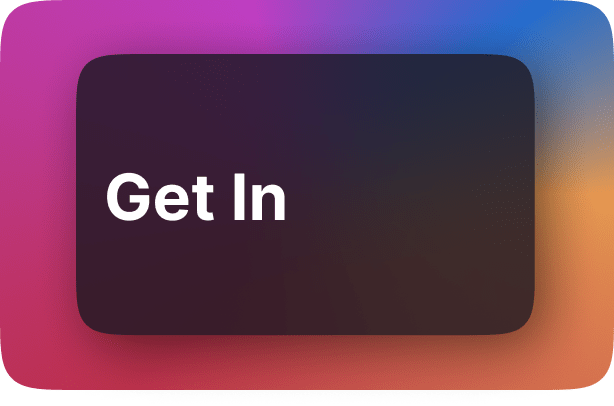
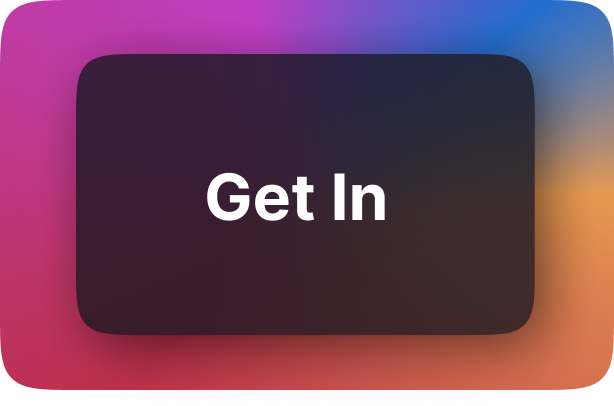
line height and image added

Changed region(s): [[0.1547, 0.4138, 0.6498, 0.5616]]

diff --git a/styles/Landingr.module.css b/styles/Landingr.module.css
@@ -105,7 +105,7 @@
   font-style: normal;
   font-weight: 400;
   font-size: 1.5em;
-  line-height: 25px;
+  line-height: 30px;
 }
 
 .date_div {
